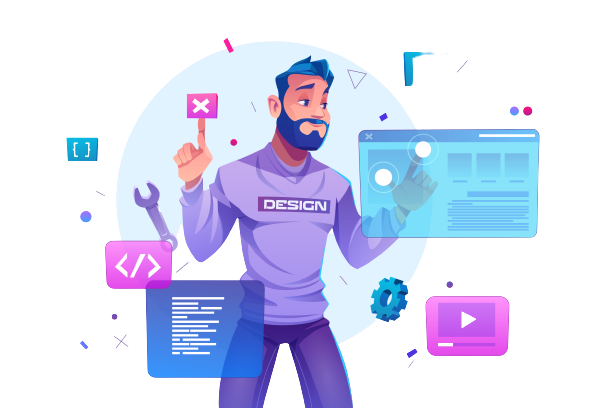
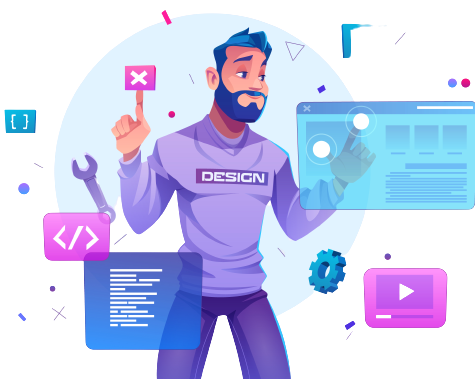
First Commit-Improved Responsiveness

diff --git a/index.html b/index.html
@@ -19,13 +19,13 @@
 
 <body>
     <div class="cover">
-        <img class="img-top" src="./images/code.png" alt="code icon" height="100" />
+        <img class="img-top" src="./images/code.png" alt="code icon" height="80" />
         <div class="title">
             <h1>I'm Jajati.</h1>
             <h2>a Web Developer.</h2>
         </div>
-        <img class="img-bottom" src="./images/code.png" alt="code icon" height="100" />
-        <img class="design-bottom" src="./images/animated-coder.png" alt="animated coder" />
+        <img class="img-bottom" src="./images/code.png" alt="code icon" height="80" />
+        <img class="design-bottom" src="./images/animated-coder.png" alt="animated coder" height="250" />
     </div>
 
     <div class="introduction">
@@ -84,7 +84,7 @@
   
 
     <div class="contact">
-      <div class="p-5 text-center bg-body-tertiary rounded-3">
+      <div class="p-5 text-center rounded-3">
         <h2 class="text-body-emphasis">Get In Touch</h2>
         <h4 class="heading">Curious minds unite!</h4>
         <p class="contact-message">If you're intrigued by innovative design, passionate about cutting-edge technology, or simply seeking a creative collaborator, you've come to the right place. I'm Jajati Satpathy, a dedicated Full Stack Web Developer with a knack for turning ideas into captivating experiences. Whether you have a project in mind or simply want to connect over shared interests, I'd love to hear from you. Drop me a line, and let's start a conversation that could spark something extraordinary!

diff --git a/styles.css b/styles.css
@@ -1,8 +1,9 @@
 body {
+    background-color: #BBE1FA !important;
     text-align: center !important;
     color: rgb(64, 81, 78) !important;
     font-family: 'Merriweather', serif !important;
-    margin: 0px !important;
+    margin: 0 !important;
 }
 .cover {
     background-image: linear-gradient(to right bottom, #d16ba5, #c777b9, #ba83ca, #aa8fd8, #9a9ae1, #8aa7ec, #79b3f4, #69bff8, #52cffe, #41dfff, #46eefa, #5ffbf1);
@@ -26,12 +27,12 @@ body {
 }
 .img-top {
     position: absolute;
-    right: 300px;
+    right: 200px;
     top: 40px;
 }
 .img-bottom {
     position: absolute;
-    left: 300px;
+    left: 200px;
 }
 .design-bottom {
     margin-top: 100px;
